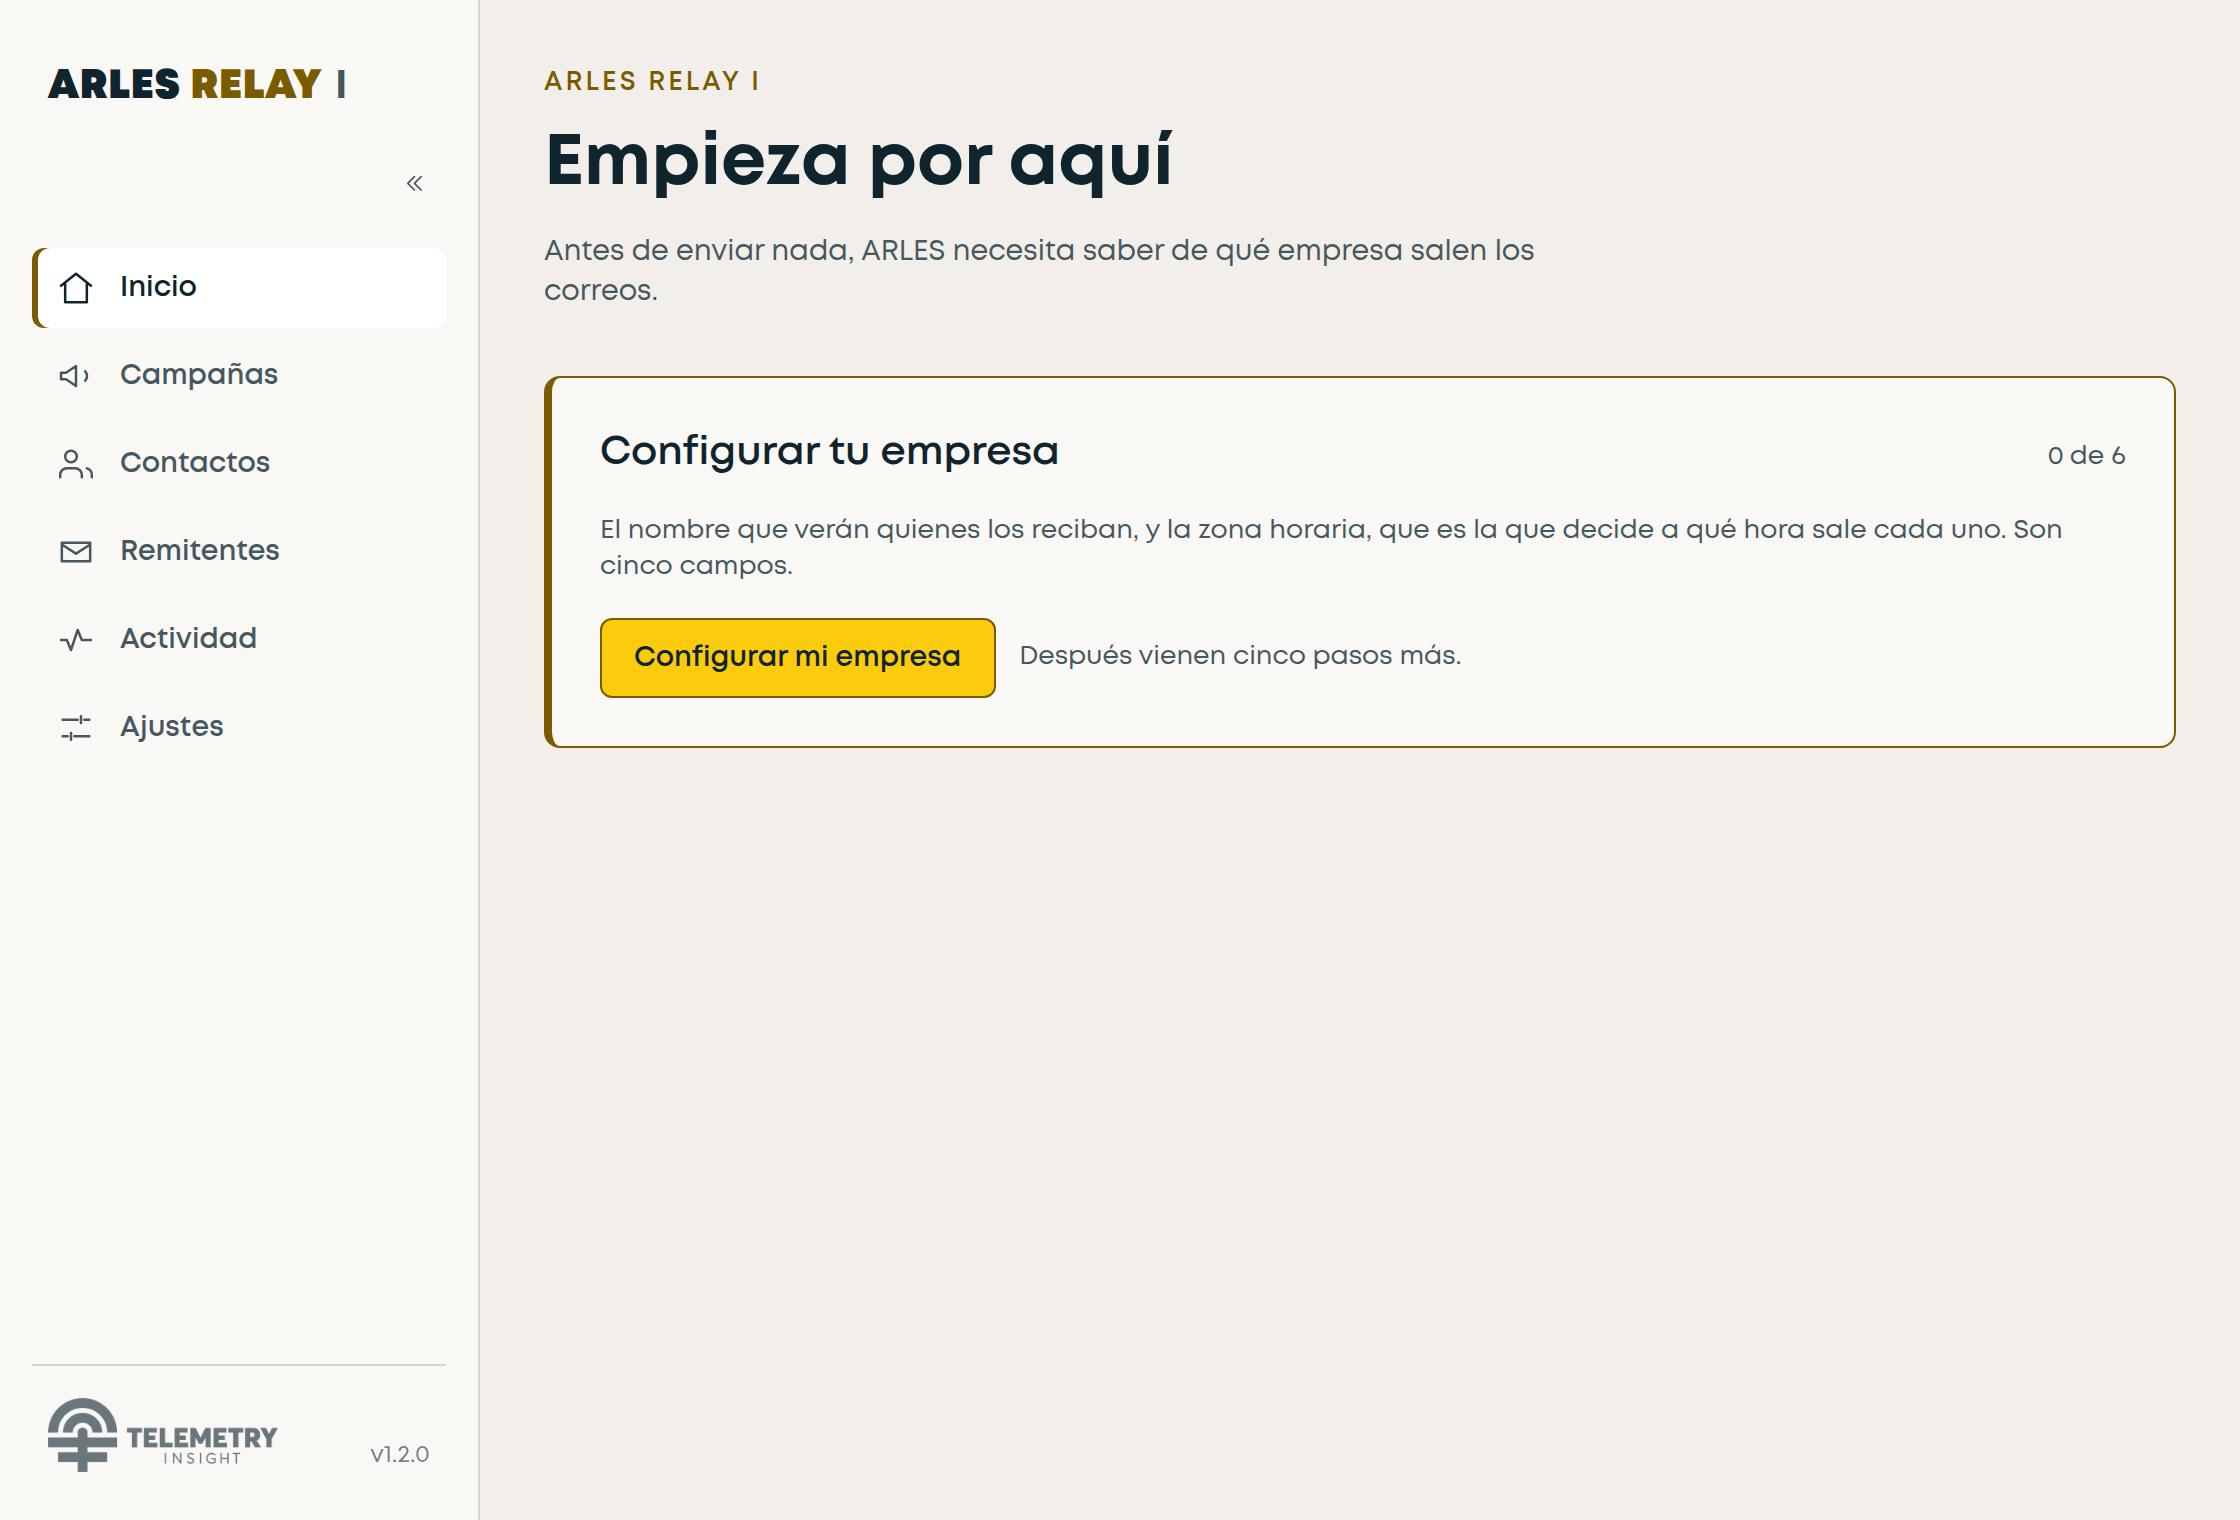
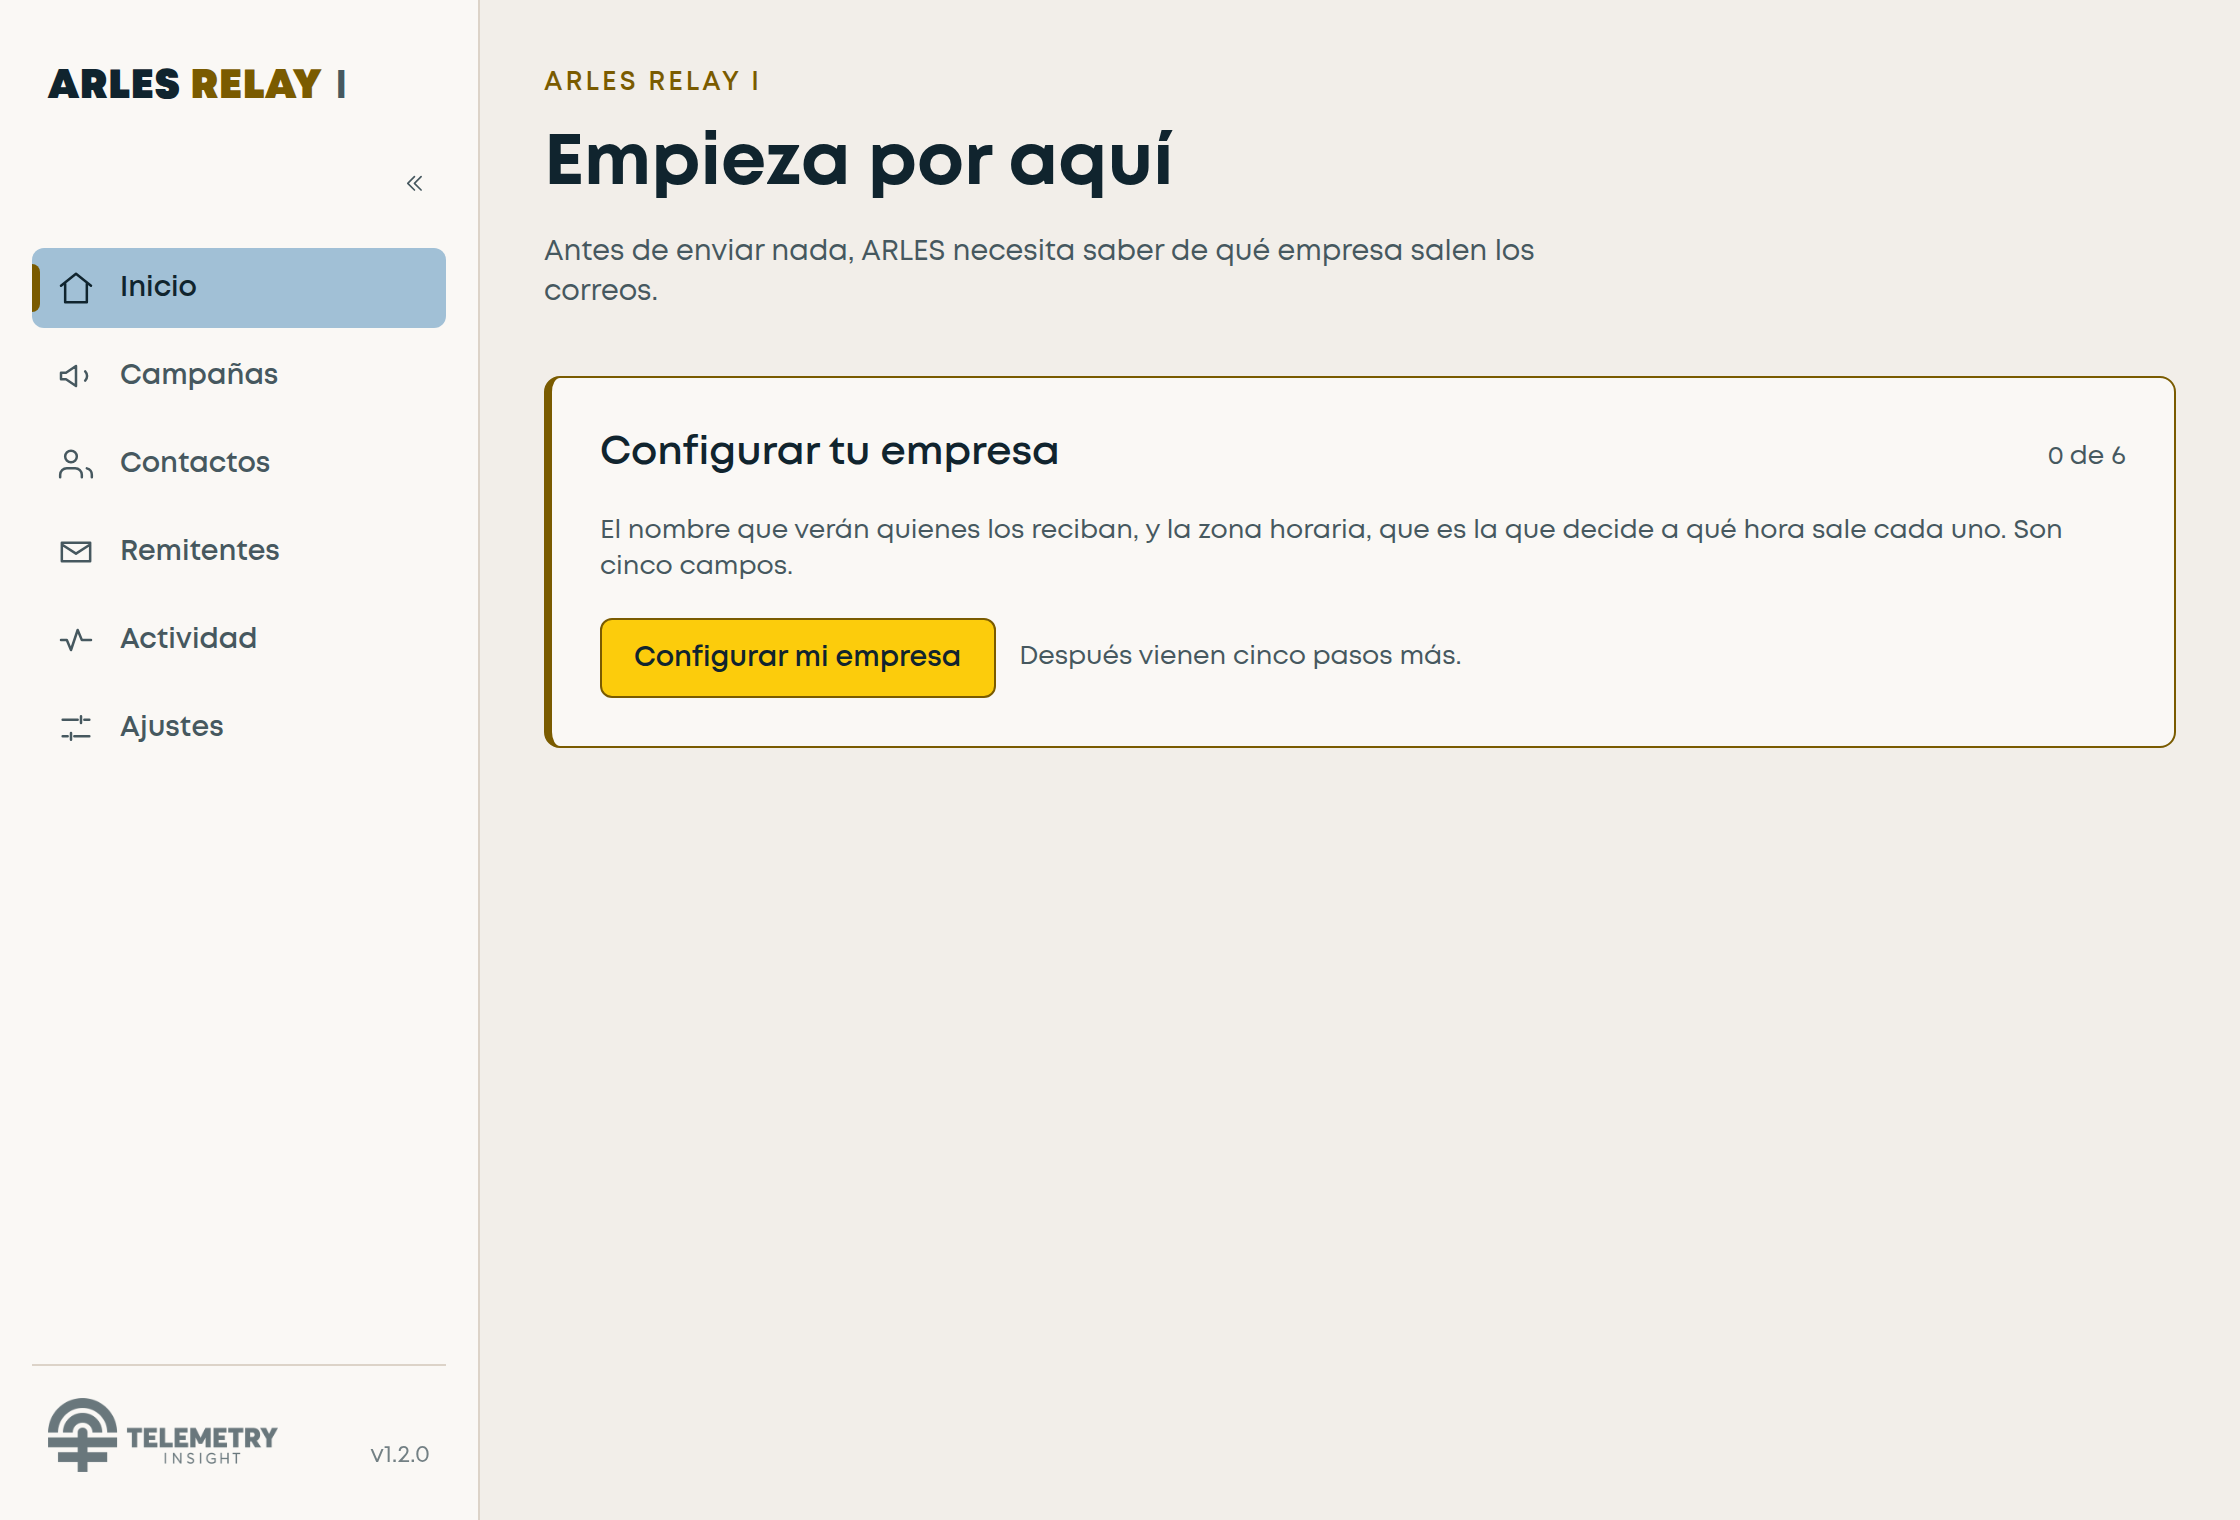
feat(nav): la sección activa se ve en los dos temas, y su barra crece
El relleno del activo reutilizaba --arles-surface-raised, que en tema claro es
blanco puro sobre una barra casi blanca: 1.06:1. De las dos señales que marcan
el estado quedaba una, la barra de acento.

Token propio --arles-nav-activo: #045686 en oscuro, #A1C0D6 en claro. Da 1.80:1
contra la barra —el oscuro da 1.76— y está en la misma familia de matiz, 205°
frente a 202°, así que el claro es la traducción del oscuro y no otro color.

El contrato que lo vigila no es un mínimo de WCAG: la barra de acento es la que
cumple el 1.4.11. Es el suelo por debajo del cual el relleno deja de aportar
nada, fijado en 1.5. Sin él nada habría fallado el día que el relleno se volvió
invisible, que es exactamente lo que pasó.

La barra de acento pasa de sombra interior a pseudoelemento y crece desde el
centro al cambiar de sección, mientras la anterior se recoge. Una sombra no se
puede animar por altura. El movimiento tiene función: dice a dónde se fue el
estado, en lugar de que la barra aparezca de golpe en otro sitio.

Y se comprueba que anima, no sólo que exista: la sonda mide la altura a los
50 ms y falla si ya está en su valor final; con prefers-reduced-motion exige lo
contrario. Probada quitando la transición.

La propia sonda tenía un fallo al escribirla: navegaba a Inicio y después
pulsaba Inicio, así que no había cambio de sección que animar y acusaba al
producto de un defecto suyo.

Claude-Session: https://claude.ai/code/session_01LMpU9g9CeXzSDyzEWzDzhe

Changed region(s): [[0.0, 0.1546, 0.2188, 0.2164]]

diff --git a/app/src/app/App.vue b/app/src/app/App.vue
@@ -320,6 +320,7 @@ onBeforeUnmount(() => window.removeEventListener('resize', medir))
 }
 
 .nav-enlace {
+  position: relative;
   display: flex;
   align-items: center;
   gap: var(--arles-space-3);
@@ -331,7 +332,39 @@ onBeforeUnmount(() => window.removeEventListener('resize', medir))
   color: var(--arles-text-muted);
   text-decoration: none;
   font-weight: var(--arles-font-weight-semibold);
-  transition: background var(--arles-duration-fast) var(--arles-ease);
+  transition:
+    background var(--arles-duration-normal) var(--arles-ease),
+    color var(--arles-duration-normal) var(--arles-ease);
+}
+
+/* ── La barra de acento de la sección activa ────────────────────────────────
+   Es un pseudoelemento y no una sombra interior porque una sombra no se puede
+   animar por altura. Aquí crece desde el centro al entrar en la sección y se
+   recoge al salir — los dos a la vez, porque la clase se quita de un enlace y
+   se pone en otro en el mismo instante.
+
+   El movimiento tiene función (§98): dice **a dónde se fue** el estado. Una
+   animación decorativa en una barra de navegación se vuelve ruido a la tercera
+   vez que navegas; ésta dura 200 ms y sólo ocurre al cambiar de sección.
+
+   `prefers-reduced-motion` la anula, como todo lo demás: la regla global de
+   `base.css` reduce la transición a 0.01 ms, así que el estado final es el
+   mismo y sólo desaparece el recorrido. */
+.nav-enlace::before {
+  content: '';
+  position: absolute;
+  left: 0;
+  top: 50%;
+  width: var(--arles-space-1);
+  height: 0;
+  transform: translateY(-50%);
+  border-radius: 0 var(--arles-radius-sm) var(--arles-radius-sm) 0;
+  background: var(--arles-accent-ink);
+  transition: height var(--arles-duration-normal) var(--arles-ease);
+}
+
+.nav-enlace.router-link-active::before {
+  height: 60%;
 }
 
 .plegado .nav-enlace {
@@ -366,12 +399,17 @@ onBeforeUnmount(() => window.removeEventListener('resize', medir))
   color: var(--arles-text);
 }
 
-/* La sección activa se marca con color Y con una barra: el color solo no basta
-   (§19, COLOR_SYSTEM.md §7.3). */
+/* La sección activa se marca con relleno Y con barra: el color solo no basta
+   (§19, COLOR_SYSTEM.md §7.3).
+
+   El relleno es `--arles-nav-activo` y no `--arles-surface-raised`. Con la
+   superficie elevada, en tema claro el activo quedaba en blanco puro sobre una
+   barra casi blanca —**1.06:1**— y el relleno no aportaba nada: el estado se
+   sostenía sólo en la barra de acento. Ahora da 1.80, prácticamente lo mismo
+   que el 1.76 del tema oscuro. */
 .nav-enlace.router-link-active {
-  background: var(--arles-surface-raised);
+  background: var(--arles-nav-activo);
   color: var(--arles-text);
-  box-shadow: inset 3px 0 0 var(--arles-accent-ink);
 }
 
 /* Se distingue de la navegación real: no es una sección del producto, es una

diff --git a/herramientas/design-tokens/dist/arles-tokens.css b/herramientas/design-tokens/dist/arles-tokens.css
@@ -11,6 +11,7 @@
   --arles-surface-raised: #045686;  /* Tarjetas, modales */
   --arles-surface-hover : #0C6F9D;  /* Estado transitorio */
   --arles-border-strong : #93D4EE;  /* Borde de énfasis y límite de control. Sube hasta aquí porque tiene que verse también dentro de una tarjeta (1.4.11). */
+  --arles-nav-activo    : #045686;  /* Fondo de la sección activa en la navegación. Token propio y no `--arles-surface-raised`: en tema claro esa superficie es blanco puro sobre una barra casi blanca —1.06:1— y el relleno no marcaba nada. */
 
   /* Contenido y acento */
   --arles-text         : #F4ECE4;  /* Texto primario */
@@ -50,6 +51,7 @@
   --arles-surface-raised: #FFFFFF;
   --arles-surface-hover : #E7DFD4;
   --arles-border-strong : #8A7A64;
+  --arles-nav-activo    : #A1C0D6;
   --arles-text          : #10242E;
   --arles-text-muted    : #46585F;
   --arles-accent        : #FCCC0C;

diff --git a/documentacion/05-diseno/UX_NAVEGACION.md b/documentacion/05-diseno/UX_NAVEGACION.md
@@ -239,7 +239,45 @@ La regla de ADR-0010 que sigue en pie: **nunca adyacente al número de versión.
 «ARLES RELAY I v1.2.0» hace pensar que el «I» es la versión 1. Aquí el numeral
 está arriba y la versión en el pie, con toda la navegación en medio.
 
-### 4.2.6 El pie: el logotipo de TELEMETRY, enlazado
+### 4.2.6 La sección activa: relleno propio y barra que crece
+
+El activo se marcaba con **relleno y barra de acento**, y en tema oscuro las dos
+señales funcionaban. En claro no: el relleno reutilizaba
+`--arles-surface-raised`, que allí es **blanco puro sobre una barra casi
+blanca** —1.06:1—. El estado se sostenía sólo en la barra de acento.
+
+=> Token propio, `--arles-nav-activo`: `#045686` en oscuro y `#A1C0D6` en claro.
+Da **1.80:1** contra la barra, prácticamente lo mismo que el 1.76 del oscuro, y
+está en la misma familia de matiz —205° frente a 202°—, así que el claro es la
+traducción del oscuro y no otro color.
+
+| | Oscuro | Claro |
+|---|---|---|
+| Relleno contra la barra | 1.76:1 | **1.80:1** |
+| La etiqueta encima | 11.80:1 | **8.39:1** |
+| La barra de acento encima | 5.14:1 | **3.32:1** |
+
+!i El contrato que lo vigila **no es un mínimo de WCAG**: la barra de acento es
+la que cumple el 1.4.11. Es el suelo por debajo del cual el relleno deja de
+aportar nada, fijado en 1.5. Sin él, nada habría fallado el día que el relleno
+se volvió invisible.
+
+#### La barra crece, no aparece
+
+Al cambiar de sección la barra de acento **crece desde el centro** en 200 ms, y
+la del enlace anterior se recoge a la vez. El movimiento tiene función (§98):
+dice **a dónde se fue** el estado. Sin él la barra aparece de golpe en otro
+sitio y el ojo tiene que buscarla.
+
+Es un pseudoelemento y no una sombra interior, porque una sombra no se puede
+animar por altura.
+
+=> `prefers-reduced-motion` la anula, como todo lo demás. **Y se comprueba:**
+la sonda mide la altura a los 50 ms y falla si ya está en su valor final —con
+movimiento normal porque entonces no anima, y con movimiento reducido al revés,
+si sigue animando—. Probada quitando la transición: la detecta.
+
+### 4.2.7 El pie: el logotipo de TELEMETRY, enlazado
 
 Sustituye a «Software desarrollado por TELEMETRY INSIGHT» en texto. El logotipo
 y la versión **comparten fila y línea de base**; antes iban apilados y la

diff --git a/CHANGELOG.md b/CHANGELOG.md
@@ -12,6 +12,29 @@ Versionado según [Versionado Semántico](https://semver.org/lang/es/) (§3).
 
 ## [Sin publicar]
 
+### La sección activa se ve en los dos temas, y su barra crece
+
+- **El relleno del activo era invisible en tema claro.** Reutilizaba
+  `--arles-surface-raised`, que allí es blanco puro sobre una barra casi blanca:
+  **1.06:1**. Las dos señales que marcan el estado se quedaban en una.
+- Token propio `--arles-nav-activo`: `#045686` en oscuro, `#A1C0D6` en claro.
+  Da **1.80:1** contra la barra —el oscuro da 1.76— y está en la misma familia
+  de matiz, 205° frente a 202°: es la traducción del oscuro, no otro color.
+- **El contrato que lo vigila no es un mínimo de WCAG.** La barra de acento es
+  la que cumple el 1.4.11; éste es el suelo por debajo del cual el relleno deja
+  de aportar nada, fijado en 1.5. Sin él, nada habría fallado el día que el
+  relleno se volvió invisible.
+- **La barra de acento crece desde el centro** al cambiar de sección, en 200 ms,
+  mientras la anterior se recoge. El movimiento dice a dónde se fue el estado;
+  sin él la barra aparece de golpe en otro sitio. Es un pseudoelemento y no una
+  sombra interior porque una sombra no se puede animar por altura.
+- **Y se comprueba que anima.** La sonda mide la altura a los 50 ms y falla si
+  ya está en su valor final. Con `prefers-reduced-motion` exige lo contrario.
+  Probada quitando la transición: la detecta.
+- De paso, la propia sonda tenía un fallo: navegaba a Inicio y después pulsaba
+  Inicio, así que no había cambio de sección que animar y acusaba al producto de
+  un defecto suyo.
+
 ### El logotipo de TELEMETRY ya no desaparece al plegar
 
 - Con la barra plegada el logotipo horizontal no entra en 64 px y **se quitaba
